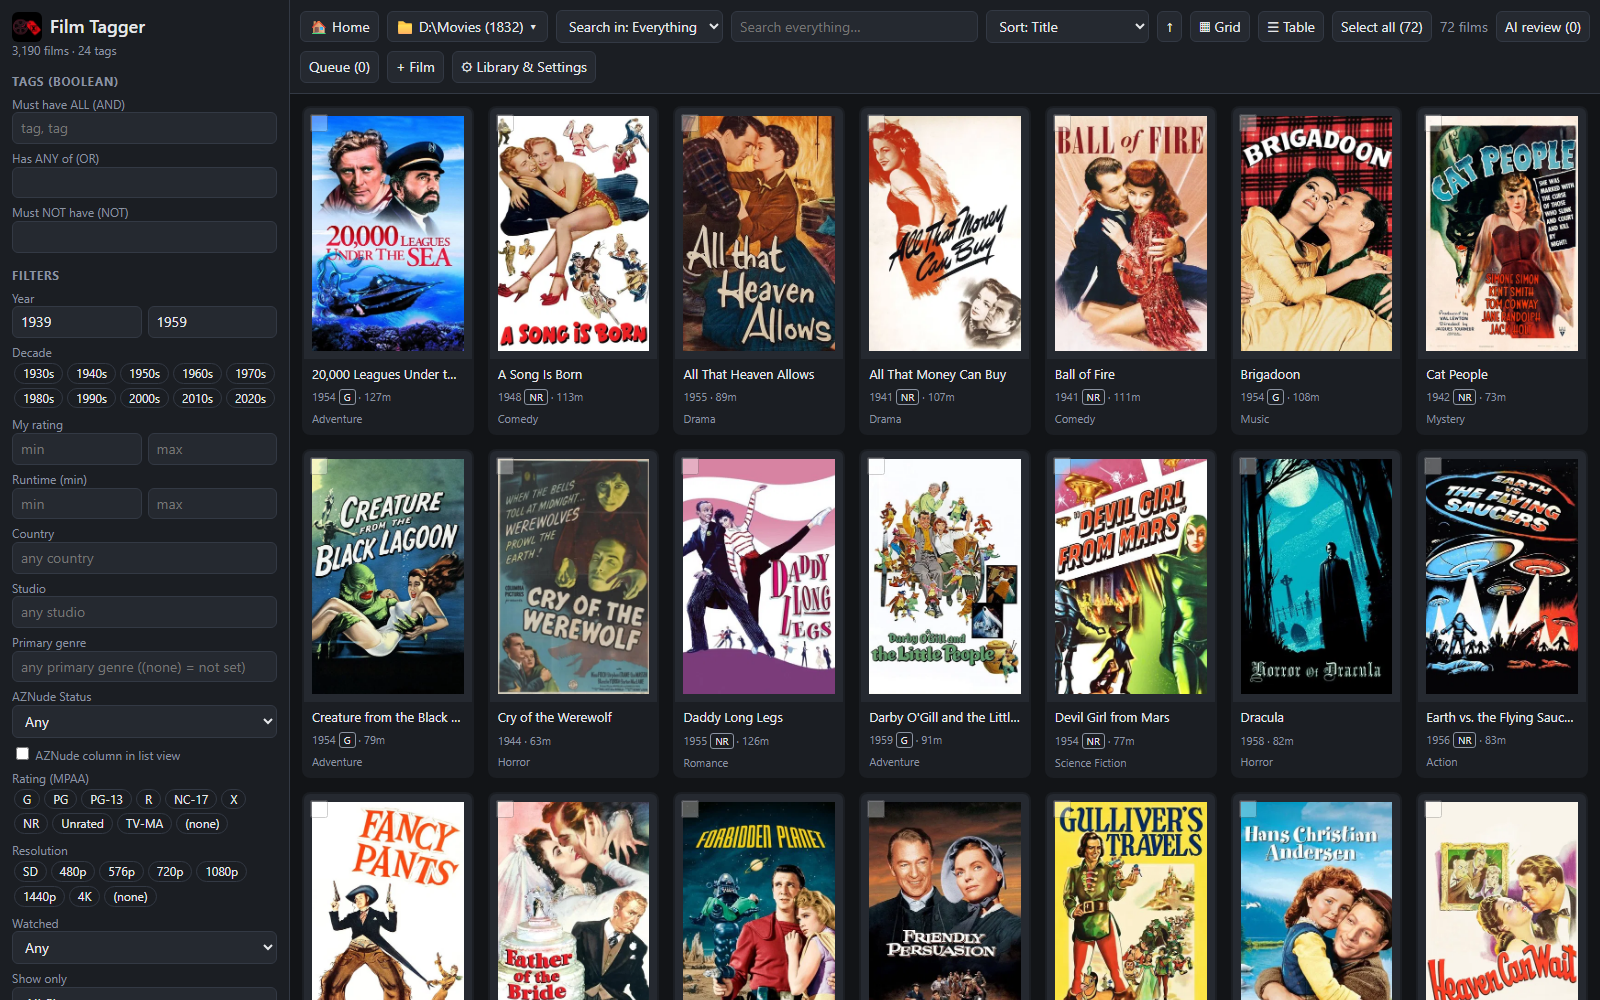
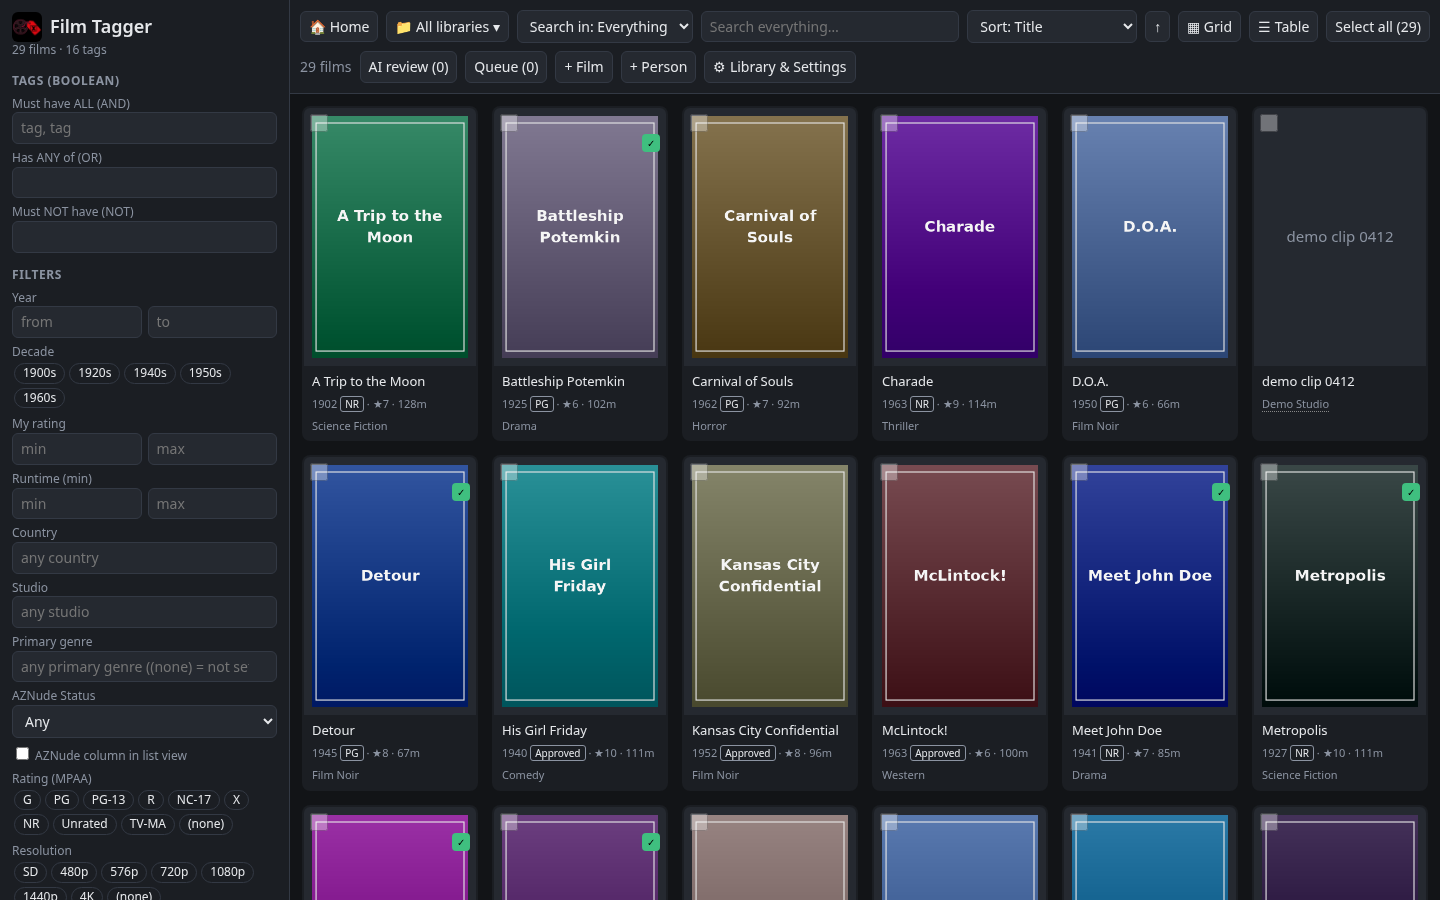
README: features through v1.0.41, install/update and ThePornDB token setup; new safe-for-work demo screenshots

diff --git a/README.md b/README.md
@@ -8,63 +8,91 @@ Point it at the folders where your video files live. It builds a searchable cata
 > **New to this? See [INSTALL.txt](INSTALL.txt)** for step-by-step Windows setup: download `FilmTaggerSetup.exe`, double-click, done. No Python install or admin rights needed.
 
 ## Features
-- **Library scan:** recursively finds video files (mkv, mp4, avi, mov, wmv, m4v, mpg, ts, webm, vob, …) in any folders or drives and guesses the title and year from file or folder names. **Read-only:** your files are never moved, renamed or deleted. Rescans add new files and flag missing ones.
-- **Rich film records:** title, year, country, director, cast, runtime, plot, poster, MPAA rating, your 1–10 rating, watched flag, notes, storage location and file paths. Everything is editable.
-- **Unlimited tags** with user-editable categories (Genre, Content, Themes, Mood, Setting, Era…), autocomplete and bulk add/remove.
-- **Powerful search:** tag logic (ALL / ANY / NOT), text search in any field, filters for year, decade (multi-select chips), country, rating, runtime, watched, MPAA and library folder. Searches can be saved, and Back/Forward history works for every filter.
-- **Poster grid and sortable table**, fast with 10,000+ films.
-- **Clickable people:** click any director, actor, writer, producer, cinematographer or composer to see all their films, with a role breakdown and sorting.
-- **Country and decade links:** country comes from TMDB (editable, never overwritten once you edit it) and is clickable to show all films from that country; a decade link next to Year does the same. *Fill missing countries* in Library & Settings backfills older records.
-- **Studio:** filled from TMDB production companies, editable and never overwritten once you edit it, clickable to show all films from that studio, searchable, with a sidebar filter, *Sort by Studio*, a bulk *Set studio* action and *Fill missing studios* in Library & Settings to backfill older records.
-- **Resolution:** auto-detected from your video files (ffprobe if installed, otherwise a built-in reader for MP4/MKV/AVI/MPEG, otherwise the filename). Editable, with filter chips, a bulk *Set resolution* action and a *Detect resolutions* scan.
-- **People:** searching matches actors, directors, writers and producers (accent-insensitive) and shows person cards. Each person gets a page with their TMDB photo, dates and bio plus their full filmography grouped by role; films you own are highlighted and open in the app, the rest link to TMDB ("You have 23 of 87", with an *Only films I have* toggle). Without a TMDB key it shows the films in your library.
-- **Your own poster art:** upload, drag-and-drop or paste an image URL. TMDB refreshes never replace it.
-- **Original and alternative titles:** search finds films by original, TMDB alternative or your own "also known as" titles, ignoring accents.
-- **Optional TMDB metadata:** with a free key it fetches posters, cast, plot, runtime, genres and production countries for one film or your whole library, and fills in MPAA ratings.
-- **Smart tagging (AI):** queue films and let an AI suggest tags. Every suggestion waits for your approval. You can use it two ways:
-  - **No key needed:** copy the ready-made prompt into any AI chatbot (ChatGPT, Grok, Claude, Gemini, …) and paste back its JSON reply.
-  - **Bring your own key:** connect any OpenAI-compatible API (OpenAI, OpenRouter, xAI, or local Ollama / LM Studio) for one-click "Tag now".
+### Library
+- **Library scan:** recursively finds video files (mkv, mp4, avi, mov, wmv, m4v, mpg, ts, webm, vob, …) in any folders or drives and guesses the title and year from file or folder names. Rescans add new files and flag missing ones. Film libraries are **read-only**: those files are never moved, renamed or deleted. (Scenes libraries can rename files; see below.)
+- **Removed items stay removed:** deleting a film or scene from the catalogue remembers it, so rescans skip it even if the file is later renamed or moved. *Show removed items* in Library & Settings lists them and can bring them back. The files themselves are never touched.
+- **Rich records:** title, original and alternative titles, year, country, director, cast, studio, runtime, plot, poster, MPAA rating, resolution, subtitles, your 1–10 rating, watched flag, notes, storage location and file paths. Everything is editable.
+- **Poster grid and sortable table**, fast with 10,000+ items. Scene cards show a studio line (studio · date · runtime).
+- **Back to top:** a floating ↑ button appears in the grid, on person profiles and in long dialogs once you scroll down.
 - **Backup / restore** as JSON or CSV.
 
+### Tags, genres and search
+- **Unlimited tags** with user-editable categories (Genre, Content, Themes, Mood, Setting, Era…), autocomplete and bulk add/remove. **The category you choose when adding a tag wins:** tag names are unique, so picking a different category moves that tag (for every film that has it). AI and CSV imports never change a tag's category.
+- **Primary genre:** one main genre per film. In the Edit window it is free entry: pick from the list or type a new genre, which is then remembered for the list and the sidebar filter. A value you set by hand is locked; TMDB, *Fill missing Primary Genres* and smart tagging never overwrite it. Films in a *Classic Porn* folder are only ever auto-filled with Hardcore or Softcore, but you can set any value by hand.
+- **Powerful search:** tag logic (ALL / ANY / NOT), text search in any field (accent-insensitive, including alternative titles), filters for year, decade, country, studio, primary genre, rating, runtime, watched, MPAA, resolution, subtitles and library folder. Searches can be saved, and Back/Forward history works for every filter.
+- **Country, studio and decade links** show every film from that country, studio or decade. *Fill missing countries / studios* backfill older records from TMDB; values you edit are never overwritten.
+- **Resolution** is auto-detected from the video files (ffprobe if installed, otherwise a built-in reader, otherwise the filename). **Subtitles** are detected from sidecar files (.srt, .ass, …) and embedded streams, and can be edited by hand.
+
+### Scenes libraries and ThePornDB
+Mark one or more folders as **Scenes libraries** (Library & Settings) for individual adult scenes instead of full-length films. Scenes never use TMDB; they are looked up on [ThePornDB](https://theporndb.net) and get Primary genre Hardcore.
+- **Matching:** *Fetch* looks a scene up from its file name and applies confident matches automatically. **Find…** opens a candidate picker in the Edit window with the best matches (studio, date, runtime, performers and score) and a search box; **Use** applies one. A ThePornDB scene id or URL can also be pasted and loaded directly.
+- **Review unmatched** lists every scene without a ThePornDB match with its top candidates, ready to pick.
+- **Standard file names:** on *Use*, *Fetch*/*Load* and on **Save** (when studio, date, performers or title changed), the file and its same-name sidecars move to `<Studio>\<Studio> - YYYY-MM-DD - <Performers> - <Title>.<ext>`. Windows-illegal characters are removed, nothing is overwritten (` (2)` is appended), junk double extensions like `.mp4 - EPORN.mp4` are cleaned, the catalogue path is updated, an emptied old studio folder is removed (never `_No Studio`) and every move is logged to `_filmtagger_renames.csv` in the scenes folder. Scenes missing studio, date or title are left alone with a note.
+- **Fix all file names** (Library & Settings) shows every planned rename (current → new) with a count first, then applies them with the same rules. Scenes with **`[Hold rename]`** in their notes are skipped (useful for shaky matches); remove the marker to include them again.
+
+### People
+- **Person profiles** for every actor, director, writer, producer, cinematographer and composer: photo, dates, bio and full filmography. Mainstream people come from TMDB ("You have 23 of 87", *Only films I have*); adult performers from ThePornDB (aliases, measurements, career, links), with the TMDB filmography kept when one exists.
+- **Complete scene lists:** a performer's ThePornDB scenes are loaded page by page in the background (with progress) and cached, so performers with thousands of scenes show the true total. All your own scenes for that person are listed first as **In library**, linked by name, ThePornDB alias or scene id; the rest show 200 at a time with *Load more*. Scenes have their own *Only scenes I have* toggle.
+- **Re-link** a person to a different ThePornDB performer or TMDB person by id or URL, or go back to automatic matching.
+- **+ Person** adds someone by hand (name, photo, bio, links), for people neither service knows.
+
+### Metadata and AI
+- **Optional TMDB metadata:** with a free key it fetches posters, cast, plot, runtime, genres, studios and countries for one film or the whole library, and fills in MPAA ratings. Your own poster art (upload, drag-and-drop or URL) is never replaced.
+- **Smart tagging (AI):** queue films and let an AI suggest tags and a primary genre. Every suggestion waits for your approval. Two ways:
+  - **No key needed:** copy the ready-made prompt into any AI chatbot and paste back its JSON reply.
+  - **Bring your own key:** connect any OpenAI-compatible API (OpenAI, OpenRouter, xAI, or local Ollama / LM Studio) for one-click "Tag now".
+- **AZNude Status** per film (see below).
+
 ## Screenshots
+All screenshots use a demo library of public-domain classic films and fictional placeholder people.
+
 Library grid:
 
 ![Library grid](docs/screenshots/1-grid.png)
 
-Film detail:
+Table view with tags, genre, studio, resolution and MPAA columns:
 
-![Film detail](docs/screenshots/2-detail.png)
+![Table view](docs/screenshots/2-table.png)
 
-Person filmography:
+Edit window for a film:
 
-![Person filmography](docs/screenshots/3-person.png)
+![Edit window](docs/screenshots/4-edit-film.png)
 
-Person pages: photo, bio, full filmography, films you own highlighted:
+Edit window for a scene with the ThePornDB candidate picker (placeholder data):
 
-![Person pages: photo, bio, full filmography, films you own highlighted](docs/screenshots/6-person-page.png)
+![Candidate picker](docs/screenshots/3-edit-picker.png)
 
-Tag search:
+Person profile (library-only mode, no TMDB key):
 
-![Tag search](docs/screenshots/4-tag-search.png)
+![Person profile](docs/screenshots/5-person.png)
 
-Bulk edit (set the MPAA rating on selected films):
+Library & Settings:
 
-![Bulk MPAA rating](docs/screenshots/5-bulk-mpaa.png)
+![Library and Settings](docs/screenshots/6-library-settings.png)
 
-Primary genre and AZNude Status columns in list view:
+Scenes libraries, ThePornDB token and Fix all scene file names:
 
-![Primary genre and AZNude Status](docs/screenshots/7-primary-genre-aznude.png)
-
-Library & Settings, including Fill missing Primary Genres:
-
-![Library and Settings](docs/screenshots/8-library-settings.png)
+![Scenes settings](docs/screenshots/7-settings-scenes.png)
 
 ## Install
-- **Windows (recommended):** download and run **`FilmTaggerSetup.exe`**. It installs per user into `%LOCALAPPDATA%\Film Tagger` with a bundled Python 3.12, so no admin rights are needed. It adds Start Menu and (optionally) Desktop and sign-in shortcuts and an entry in *Apps* for uninstalling. Your library (`films.db` + `posters/`) lives in `%LOCALAPPDATA%\Film Tagger\data` and survives upgrades. See [INSTALL.txt](INSTALL.txt).
+- **Windows (recommended):** download **`FilmTaggerSetup.exe`** from the [latest release](https://github.com/kylerhudson1975/film-tagger/releases/latest) and run it. It installs per user into `%LOCALAPPDATA%\Film Tagger` with a bundled Python 3.12, so no admin rights are needed. It adds Start Menu and (optionally) Desktop and sign-in shortcuts and an entry in *Apps* for uninstalling. Your library (`films.db` + `posters/`) lives in `%LOCALAPPDATA%\Film Tagger\data`. See [INSTALL.txt](INSTALL.txt).
   - Silent install: `FilmTaggerSetup.exe /S [/D=C:\path] [/NODESKTOP] [/STARTUP] [/PORT=5051]`. Silent uninstall (keeps the library): `uninstall.exe /S`.
   - Build the installer yourself on Linux: `installer/build_installer.sh` (needs `makensis`, `pip`, `curl`, `unzip`) → `dist/FilmTaggerSetup.exe`.
 - **Windows (manual):** install Python 3, unzip the source, double-click `Install Film Tagger.bat`.
 - **Mac / Linux:** `python3 -m pip install -r requirements.txt`, then `python3 app.py`, then open http://localhost:5050.
+
+### Updating
+Run the newer `FilmTaggerSetup.exe` over the existing install (close Film Tagger first, or use *Stop Film Tagger*). Your library and settings are kept, and the database is upgraded automatically on first start. For a source install, replace the program files (not `films.db` or `posters/`) and restart. A copy of `films.db` before updating is a good habit.
+
+### ThePornDB API token (for Scenes libraries)
+1. Create a free account at [theporndb.net](https://theporndb.net).
+2. Open your profile → **API tokens** and create a token.
+3. In Film Tagger open **Library & Settings → Scenes libraries**, paste the token and click *Save scenes settings*. Leave the field blank later to keep the saved token, or enter `-` to remove it.
+
+The token is stored only in your local database. Never share it or put it in a screenshot or issue.
+
+### TMDB API key (optional)
+Free from themoviedb.org → Settings → API. Paste it under **Library & Settings → TMDB**. Without a key the app works offline with what is in your library.
 
 ## Smart tagging from the command line
 ```
@@ -79,11 +107,12 @@ REST equivalents: `GET /api/queue/export`, `POST /api/queue/import`, `GET /api/p
 - The app only listens on `localhost` and rejects requests from other websites.
 - Network requests only happen when **you** use them:
   - TMDB lookups, if you add a TMDB key;
+  - ThePornDB lookups for Scenes libraries and adult performers, if you add a ThePornDB token;
   - your chosen AI provider, if you set one up. Only the film's title, year, director, file path, a short plot and its existing tags are sent.
 - API keys are stored only in your local database.
 
 ## Tech
-Python 3 + Flask + SQLite, with a single-page HTML/JS front end. There is no build step, and Flask is the only dependency.
+Python 3 + Flask + SQLite, with a single-page HTML/JS front end. There is no build step, and Flask is the only required dependency (ffprobe is used for resolution and subtitle detection if installed).
 
 ## License
 [MIT](LICENSE) © 2026 Kyle R. Hudson & Grok Bot
